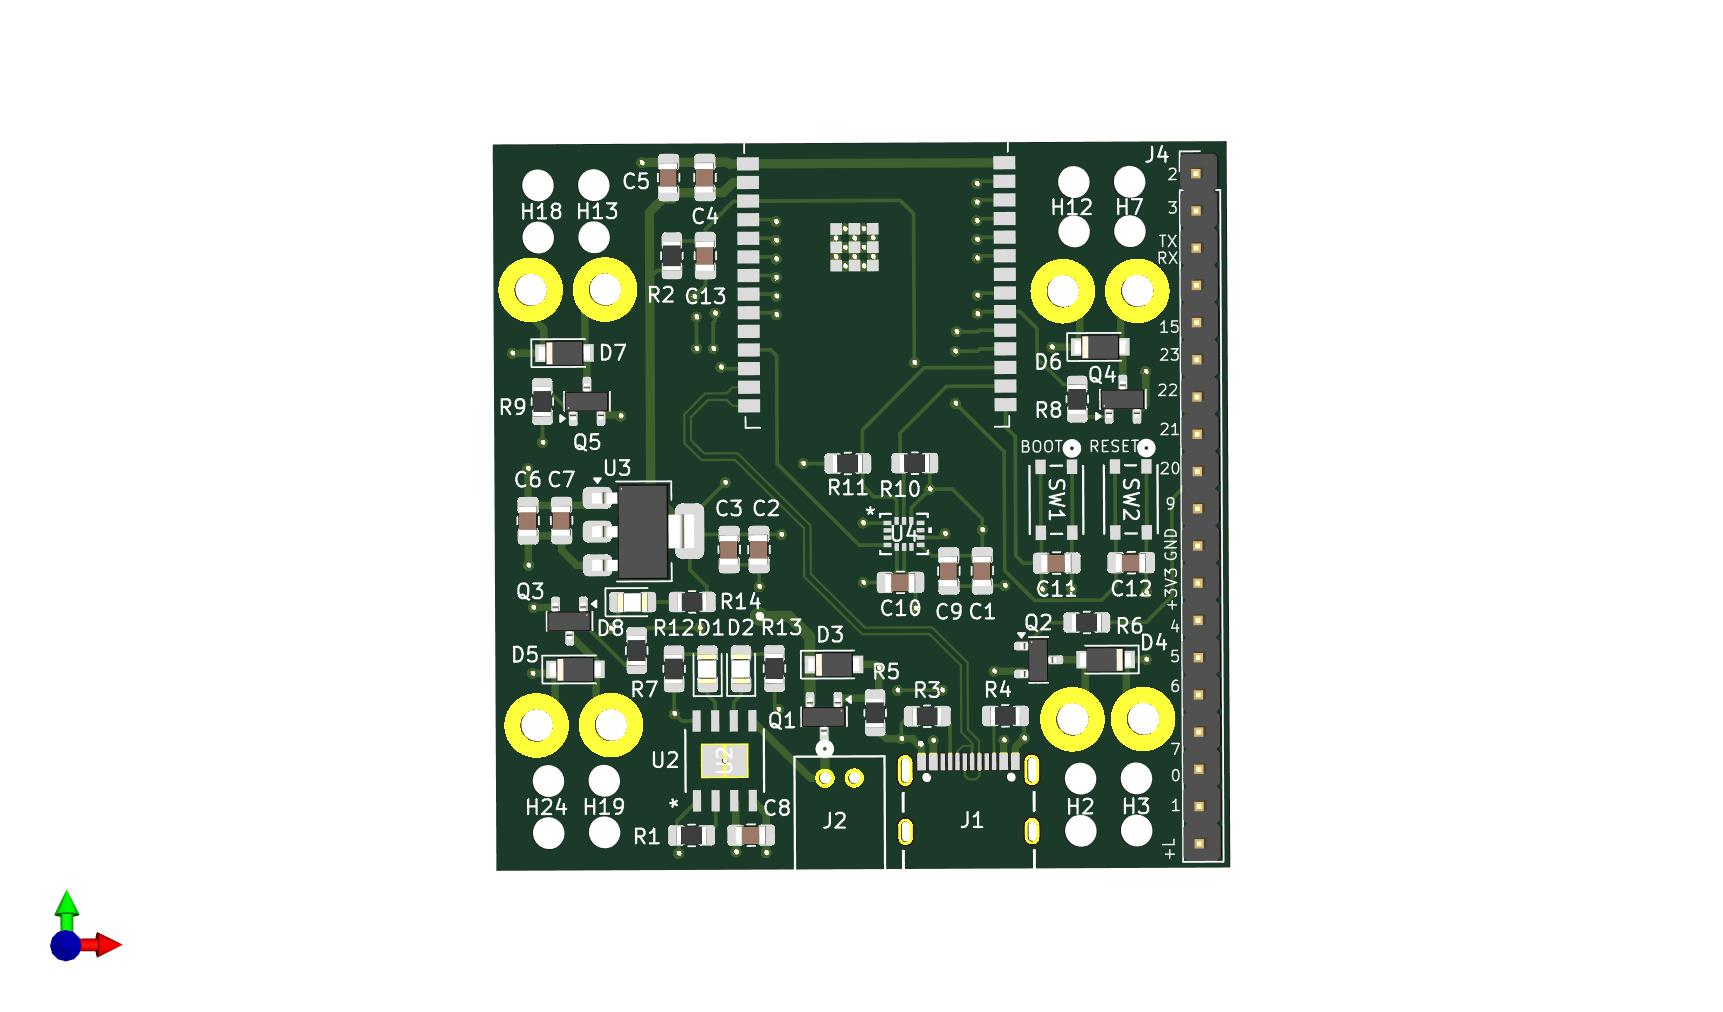
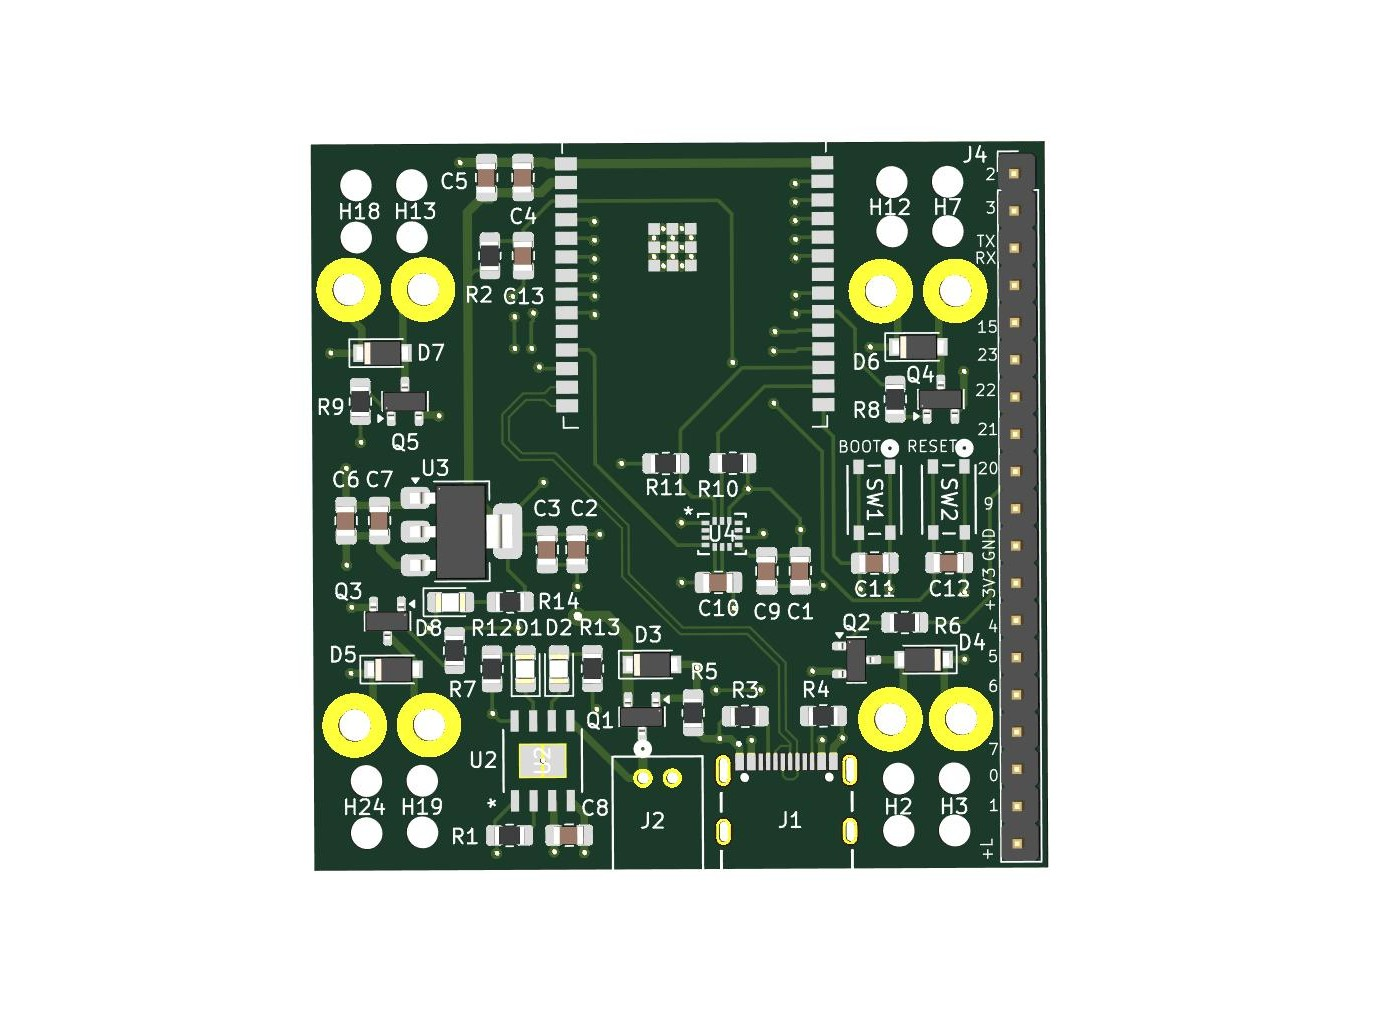
changed some stuff

Changed region(s): [[0.217, 0.1225, 0.7751, 0.8577], [0.031, 0.8883, 0.093, 0.9496]]

diff --git a/index.html b/index.html
@@ -115,22 +115,21 @@
     <h1>Grant Withee’s Project Portfolio</h1>
     <p class="sub">
       Hi, I’m Grant, a third-year student at the University of Virginia pursuing a double major in electrical and computer engineering.
-      I’m interested in hardware design, embedded systems, and rf circuits. I have done a handful of PCB schematics/layouts for various 
-      reasons such as personal projects, clubs, internships, and more. I wanted a place to display some of my work so I created this
-      website which is still a work in progress. 
+      I have done a handful of PCB schematics and layouts for various projects and wanted a place to display some of my work.
+      This website is still a work in progress and only contains a small portion of projects I have worked on, enjoy!
     </p>
 
     <section class="grid">
 
-      <!-- Remote Motor Control -->
-      <a class="project" href="remote_motor_control.html">
+            <!-- Teeny Drone -->
+      <a class="project" href="teeny_drone.html">
         <div class="thumb">
-          <img src="projects/remote_motor_control/model.jpg"
-               alt="Remote motor control 3D board model">
+          <img src="projects/teeny_drone/model.jpg"
+               alt="Bluetooth-enabled drone control board 3D model">
         </div>
         <div class="info">
           <div class="title">
-            Remote Motor Control and Telemetry Board (Schematic Only)
+            Bluetooth-Enabled Drone Control Board
           </div>
           <div class="cta">View project →</div>
         </div>
@@ -150,15 +149,15 @@
         </div>
       </a>
 
-      <!-- Teeny Drone -->
-      <a class="project" href="teeny_drone.html">
+            <!-- Remote Motor Control -->
+      <a class="project" href="remote_motor_control.html">
         <div class="thumb">
-          <img src="projects/teeny_drone/model.jpg"
-               alt="Bluetooth-enabled drone control board 3D model">
+          <img src="projects/remote_motor_control/schematic.jpg"
+               alt="Remote motor control 3D board model">
         </div>
         <div class="info">
           <div class="title">
-            Bluetooth-Enabled Drone Control Board
+            Remote Motor Control & Telemetry (Schematic Only)
           </div>
           <div class="cta">View project →</div>
         </div>
